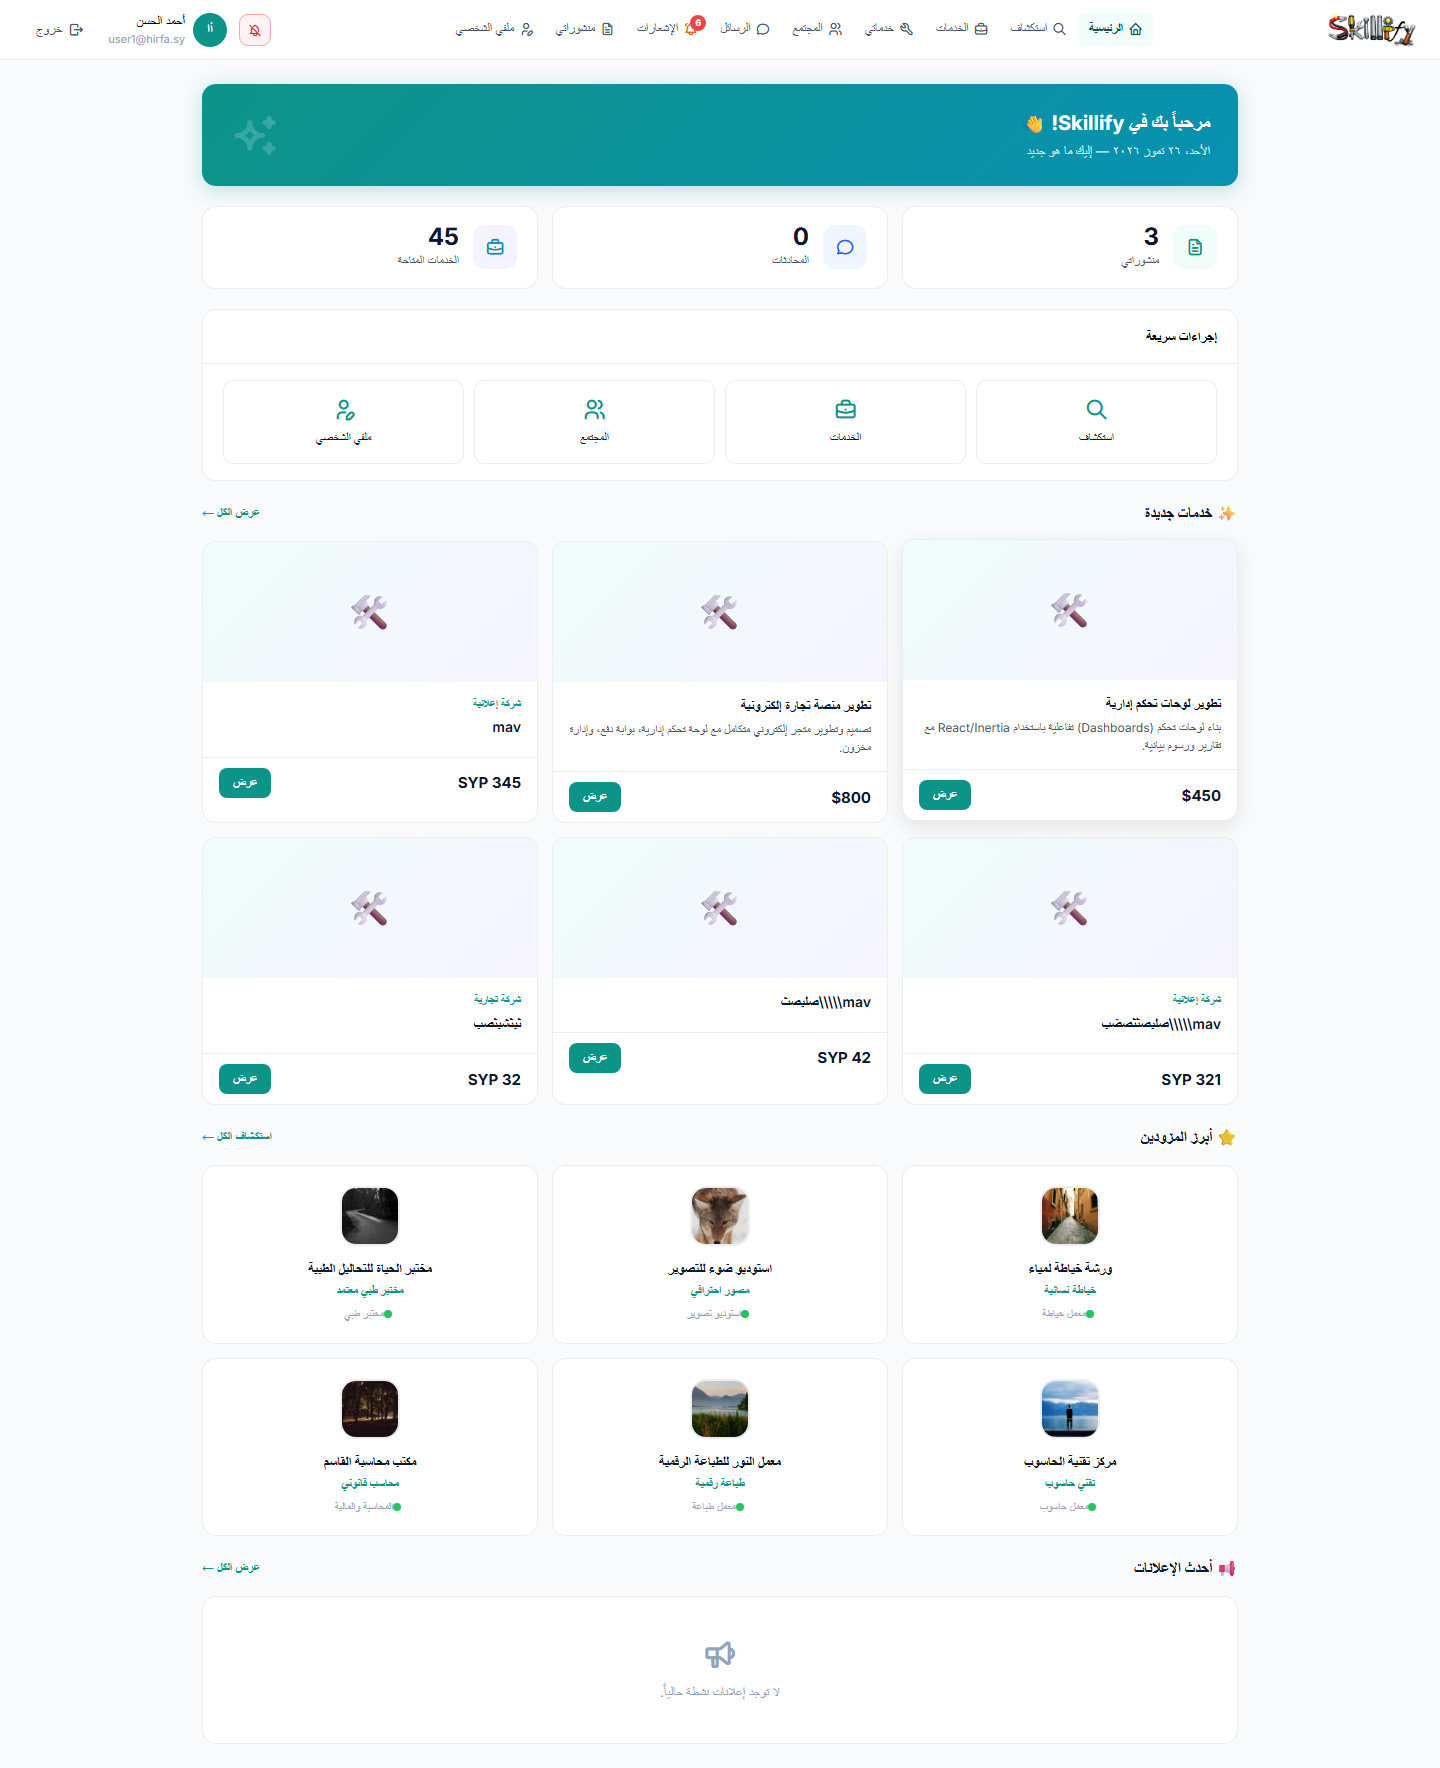
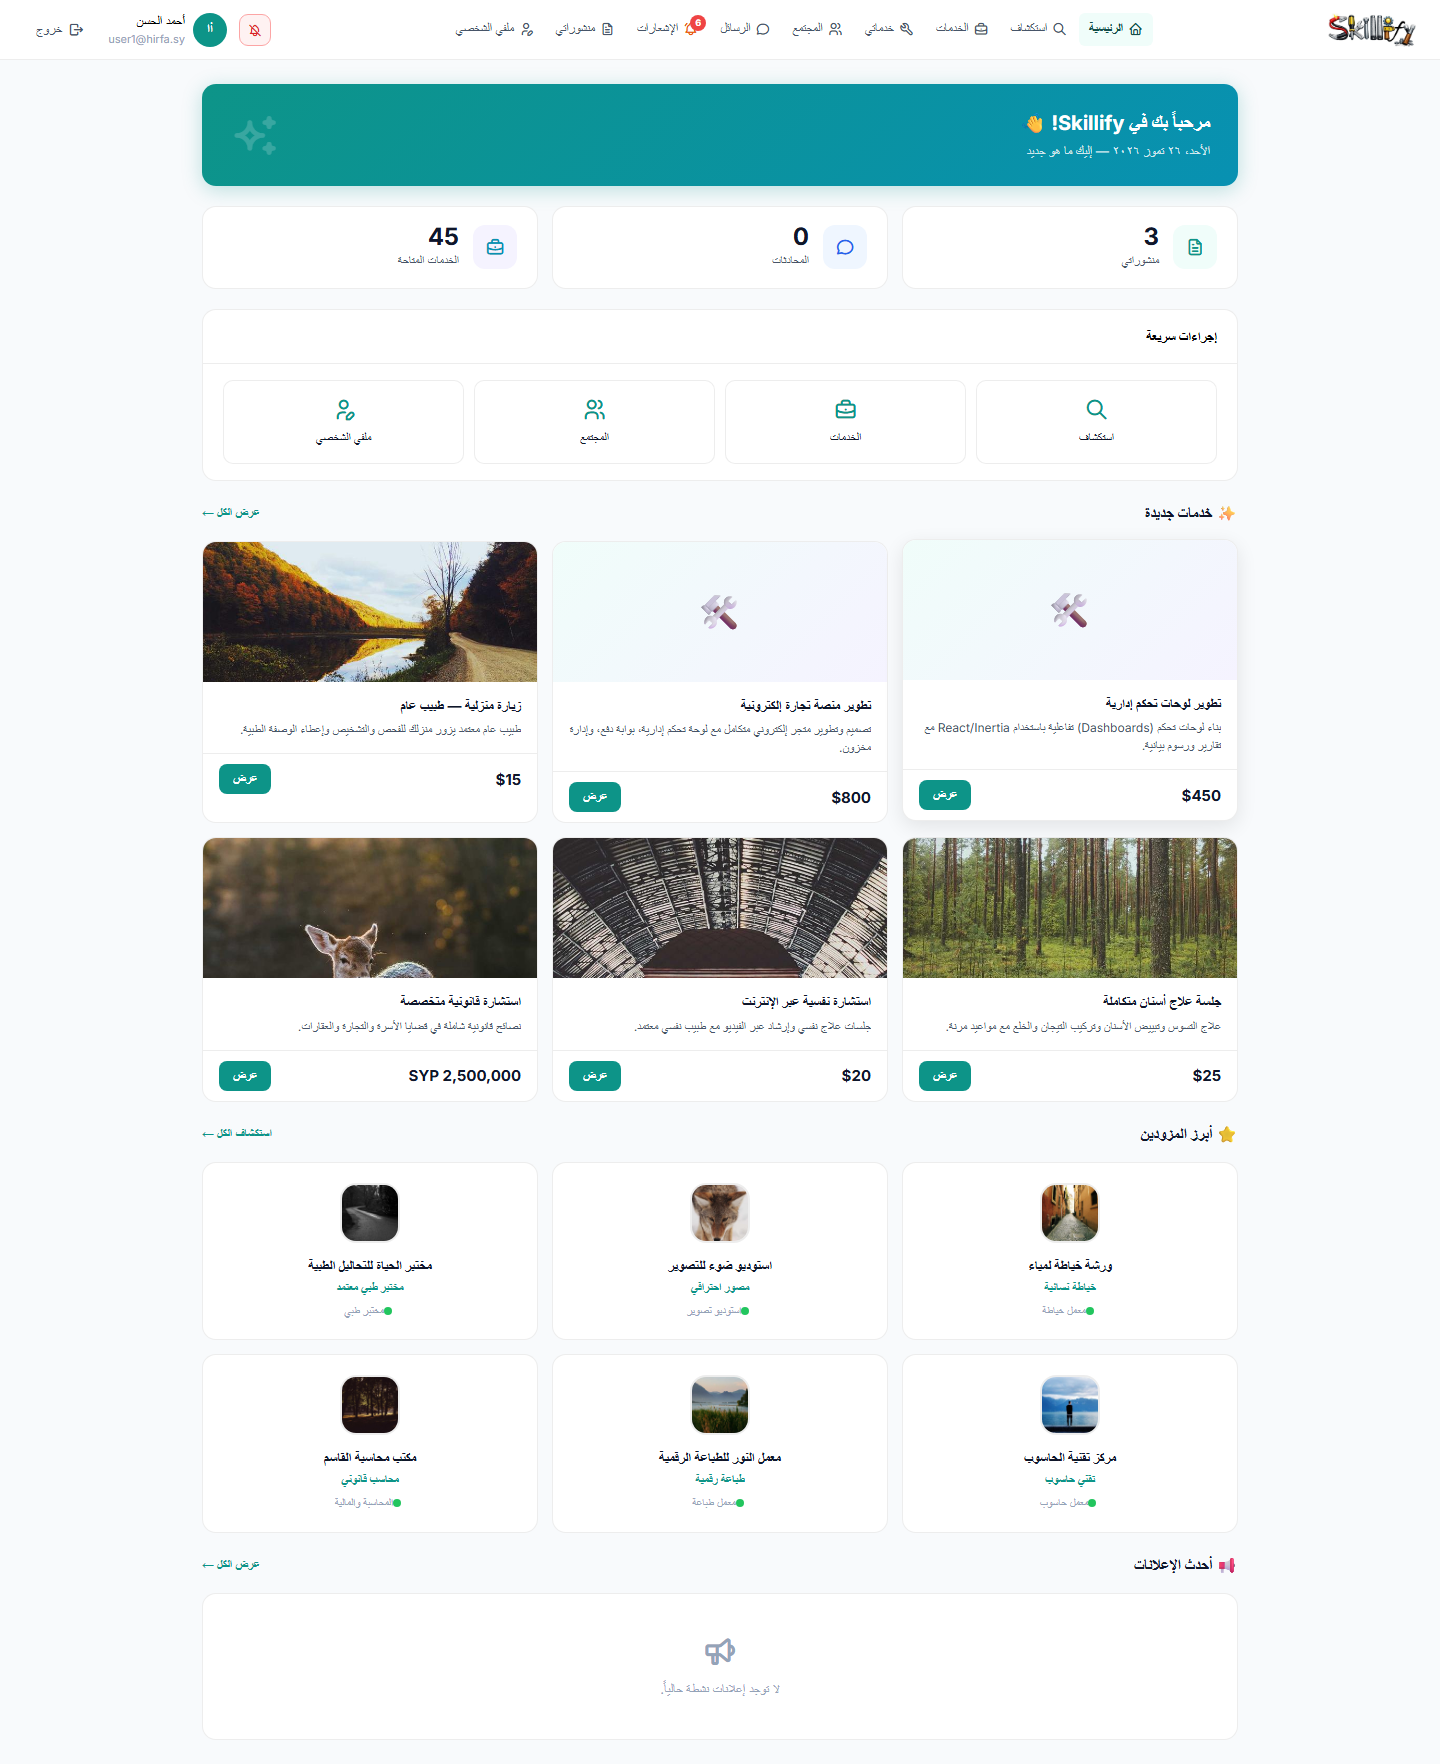
Fix broken business cover images and remove personal test accounts
Business images stored as absolute URLs (seeded demo data) were being
mangled into /storage/<url>, so every business card fell back to a
plain color block. Added a storageUrl() helper that passes absolute
URLs through untouched and applied it everywhere business/profile
images are rendered, matching the fix already present in Admin/Workers.jsx.

Also removed two personal test accounts (and their services/posts)
that were created for manual testing and shouldn't appear in the
publicly-shared screenshots, then refreshed the affected screenshots.

diff --git a/resources/js/Pages/User/Profile.jsx b/resources/js/Pages/User/Profile.jsx
@@ -6,6 +6,7 @@ import markerIcon2x from 'leaflet/dist/images/marker-icon-2x.png';
 import markerIcon from 'leaflet/dist/images/marker-icon.png';
 import markerShadow from 'leaflet/dist/images/marker-shadow.png';
 import UserLayout from '../../Layouts/UserLayout';
+import { storageUrl } from '../../utils/image';
 
 delete L.Icon.Default.prototype._getIconUrl;
 L.Icon.Default.mergeOptions({ iconRetinaUrl: markerIcon2x, iconUrl: markerIcon, shadowUrl: markerShadow });
@@ -230,7 +231,7 @@ function BizLogo({ business, size = 80, radius = 18 }) {
     return (
         <div style={{ width: size, height: size, borderRadius: radius, background: `linear-gradient(135deg,${T},${T2})`, display: 'flex', alignItems: 'center', justifyContent: 'center', fontSize: size * 0.35, fontWeight: 800, color: '#fff', flexShrink: 0, overflow: 'hidden', boxShadow: `0 6px 20px ${T}44` }}>
             {(business.image && !err)
-                ? <img src={`/storage/${business.image}`} alt="" onError={() => setErr(true)} style={{ width: '100%', height: '100%', objectFit: 'cover' }} />
+                ? <img src={storageUrl(business.image)} alt="" onError={() => setErr(true)} style={{ width: '100%', height: '100%', objectFit: 'cover' }} />
                 : (business.name?.[0]?.toUpperCase() || <i className="ti ti-building-store" />)
             }
         </div>
@@ -494,8 +495,8 @@ function PanelHead({ icon, title, sub, action }) {
 export default function Profile({ user, business, gallery, userServices, activeTypes, categories, subcategories, cities, flash, verification }) {
 
     const [tab, setTab]               = useState('profile');
-    const [imgPreview, setImgPreview]         = useState(business?.image ? `/storage/${business.image}` : null);
-    const [editImgPreview, setEditImgPreview] = useState(business?.image ? `/storage/${business.image}` : null);
+    const [imgPreview, setImgPreview]         = useState(business?.image ? storageUrl(business.image) : null);
+    const [editImgPreview, setEditImgPreview] = useState(business?.image ? storageUrl(business.image) : null);
     const [galleryUploading, setGalleryUploading]     = useState(false);
     const [pendingFiles, setPendingFiles]             = useState([]);
     const [createGalleryFiles, setCreateGalleryFiles] = useState([]);

diff --git a/resources/js/Pages/User/PublicProfile.jsx b/resources/js/Pages/User/PublicProfile.jsx
@@ -1,6 +1,7 @@
 import { Head, Link, router } from '@inertiajs/react';
 import { useState } from 'react';
 import UserLayout from '../../Layouts/UserLayout';
+import { storageUrl } from '../../utils/image';
 
 const T = '#0D9488';
 const AV_COLORS = ['#0D9488','#3B82F6','#8B5CF6','#F59E0B','#EF4444','#EC4899','#0F766E'];
@@ -8,8 +9,8 @@ const AV_COLORS = ['#0D9488','#3B82F6','#8B5CF6','#F59E0B','#EF4444','#EC4899','
 function Avatar({ user, size = 80 }) {
     const [err, setErr] = useState(false);
     const business = user.businesses;
-    const src = business?.image ? `/storage/${business.image}`
-        : user.profile_photo ? `/storage/${user.profile_photo}` : null;
+    const src = business?.image ? storageUrl(business.image)
+        : user.profile_photo ? storageUrl(user.profile_photo) : null;
     const initial = [user.first_name?.[0], user.last_name?.[0]].filter(Boolean).join('').toUpperCase();
     const color = AV_COLORS[(user.id ?? 0) % 7];
     return (
@@ -100,7 +101,7 @@ export default function PublicProfile({ profile, authId, isSelf, verifyStatus })
             <div style={{ background: '#fff', border: '1.5px solid #F1F5F9', borderRadius: 22, overflow: 'hidden', boxShadow: '0 4px 24px rgba(0,0,0,0.06)' }}>
                 {/* Cover */}
                 <div style={{ height: 130, background: `linear-gradient(135deg,#0D9488,#134E4A 60%,#052e16)`, position: 'relative', overflow: 'hidden' }}>
-                    {business?.image && <img src={`/storage/${business.image}`} alt="" style={{ position: 'absolute', inset: 0, width: '100%', height: '100%', objectFit: 'cover', opacity: 0.15, filter: 'blur(8px)', transform: 'scale(1.1)', pointerEvents: 'none' }} />}
+                    {business?.image && <img src={storageUrl(business.image)} alt="" style={{ position: 'absolute', inset: 0, width: '100%', height: '100%', objectFit: 'cover', opacity: 0.15, filter: 'blur(8px)', transform: 'scale(1.1)', pointerEvents: 'none' }} />}
                     <div style={{ position: 'absolute', inset: 0, backgroundImage: 'linear-gradient(rgba(255,255,255,0.04) 1px,transparent 1px),linear-gradient(90deg,rgba(255,255,255,0.04) 1px,transparent 1px)', backgroundSize: '32px 32px' }} />
                 </div>
 

diff --git a/resources/js/Pages/SuperAdmin/UserProfile.jsx b/resources/js/Pages/SuperAdmin/UserProfile.jsx
@@ -1,6 +1,7 @@
 import { Head, Link } from '@inertiajs/react';
 import { useState } from 'react';
 import SuperAdminLayout from '../../Layouts/SuperAdminLayout';
+import { storageUrl } from '../../utils/image';
 
 const T = '#7C3AED';
 
@@ -71,13 +72,13 @@ export default function UserProfile({ profile, verifyStatus }) {
             {/* Hero card */}
             <div style={{ background: '#fff', border: '1.5px solid #F1F5F9', borderRadius: 22, overflow: 'hidden', boxShadow: '0 4px 24px rgba(0,0,0,0.06)' }}>
                 <div style={{ height: 120, background: `linear-gradient(135deg,${T},#5B21B6 60%,#1E1B4B)`, position: 'relative', overflow: 'hidden' }}>
-                    {business?.image && <img src={`/storage/${business.image}`} alt="" style={{ position: 'absolute', inset: 0, width: '100%', height: '100%', objectFit: 'cover', opacity: 0.15, filter: 'blur(8px)', transform: 'scale(1.1)' }} />}
+                    {business?.image && <img src={storageUrl(business.image)} alt="" style={{ position: 'absolute', inset: 0, width: '100%', height: '100%', objectFit: 'cover', opacity: 0.15, filter: 'blur(8px)', transform: 'scale(1.1)' }} />}
                 </div>
                 <div style={{ padding: '0 26px 24px' }}>
                     <div style={{ position: 'relative', display: 'inline-block', marginTop: -42, marginBottom: 14 }}>
                         <div style={{ width: 88, height: 88, borderRadius: '50%', border: '4px solid #fff', boxShadow: '0 6px 20px rgba(0,0,0,0.15)', background: T, display: 'flex', alignItems: 'center', justifyContent: 'center', overflow: 'hidden' }}>
                             {business?.image
-                                ? <img src={`/storage/${business.image}`} alt="" style={{ width: '100%', height: '100%', objectFit: 'cover' }} />
+                                ? <img src={storageUrl(business.image)} alt="" style={{ width: '100%', height: '100%', objectFit: 'cover' }} />
                                 : <span style={{ fontSize: 30, fontWeight: 800, color: '#fff' }}>{(profile.first_name?.[0] ?? 'U').toUpperCase()}</span>
                             }
                         </div>

diff --git a/resources/js/Pages/Admin/UserProfile.jsx b/resources/js/Pages/Admin/UserProfile.jsx
@@ -1,6 +1,7 @@
 import { Head, Link } from '@inertiajs/react';
 import { useState } from 'react';
 import AdminLayout, { C } from '../../Layouts/AdminLayout';
+import { storageUrl } from '../../utils/image';
 
 const T = C.teal ?? '#0D9488';
 
@@ -71,13 +72,13 @@ export default function UserProfile({ profile, verifyStatus }) {
             {/* Hero card */}
             <div style={{ background: '#fff', border: C.cardBorder, borderRadius: 22, overflow: 'hidden', boxShadow: C.cardShadow }}>
                 <div style={{ height: 120, background: `linear-gradient(135deg,${T},#134E4A 60%,#052e16)`, position: 'relative', overflow: 'hidden' }}>
-                    {business?.image && <img src={`/storage/${business.image}`} alt="" style={{ position: 'absolute', inset: 0, width: '100%', height: '100%', objectFit: 'cover', opacity: 0.15, filter: 'blur(8px)', transform: 'scale(1.1)' }} />}
+                    {business?.image && <img src={storageUrl(business.image)} alt="" style={{ position: 'absolute', inset: 0, width: '100%', height: '100%', objectFit: 'cover', opacity: 0.15, filter: 'blur(8px)', transform: 'scale(1.1)' }} />}
                 </div>
                 <div style={{ padding: '0 26px 24px' }}>
                     <div style={{ position: 'relative', display: 'inline-block', marginTop: -42, marginBottom: 14 }}>
                         <div style={{ width: 88, height: 88, borderRadius: '50%', border: '4px solid #fff', boxShadow: '0 6px 20px rgba(0,0,0,0.15)', background: T, display: 'flex', alignItems: 'center', justifyContent: 'center', overflow: 'hidden' }}>
                             {business?.image
-                                ? <img src={`/storage/${business.image}`} alt="" style={{ width: '100%', height: '100%', objectFit: 'cover' }} />
+                                ? <img src={storageUrl(business.image)} alt="" style={{ width: '100%', height: '100%', objectFit: 'cover' }} />
                                 : <span style={{ fontSize: 30, fontWeight: 800, color: '#fff' }}>{(profile.first_name?.[0] ?? 'U').toUpperCase()}</span>
                             }
                         </div>

diff --git a/resources/js/Pages/SuperAdmin/BusinessDetails.jsx b/resources/js/Pages/SuperAdmin/BusinessDetails.jsx
@@ -1,5 +1,6 @@
 import { Head, Link, router } from '@inertiajs/react';
 import SuperAdminLayout from '../../Layouts/SuperAdminLayout';
+import { storageUrl } from '../../utils/image';
 
 const STATUS = {
     active:   { bg: '#F0FDF4', color: '#134E4A', label: 'مقبول' },
@@ -37,7 +38,7 @@ export default function BusinessDetails({ business }) {
                 <div style={{ background: '#fff', border: '0.5px solid rgba(0,0,0,0.07)', borderRadius: 14, overflow: 'hidden' }}>
                     <div style={{ display: 'flex', alignItems: 'center', gap: 14, padding: '18px 20px', borderBottom: '0.5px solid rgba(0,0,0,0.07)' }}>
                         <div style={{ width: 60, height: 60, borderRadius: 12, background: '#F5F3FF', overflow: 'hidden', display: 'flex', alignItems: 'center', justifyContent: 'center', fontSize: 24, color: '#7C3AED', flexShrink: 0 }}>
-                            {business.image ? <img src={`/storage/${business.image}`} style={{ width: '100%', height: '100%', objectFit: 'cover' }} alt={business.name} /> : <i className="ti ti-briefcase" />}
+                            {business.image ? <img src={storageUrl(business.image)} style={{ width: '100%', height: '100%', objectFit: 'cover' }} alt={business.name} /> : <i className="ti ti-briefcase" />}
                         </div>
                         <div>
                             <div style={{ fontSize: 17, fontWeight: 700, color: '#1E1B4B' }}>{business.name}</div>

diff --git a/resources/js/Pages/Admin/WorkerDetails.jsx b/resources/js/Pages/Admin/WorkerDetails.jsx
@@ -1,5 +1,6 @@
 import { Head, Link, router } from '@inertiajs/react';
 import AdminLayout from '../../Layouts/AdminLayout';
+import { storageUrl } from '../../utils/image';
 
 const STATUS = {
     active:   { bg: '#F0FDF4', color: '#134E4A' },
@@ -37,7 +38,7 @@ export default function WorkerDetails({ business }) {
                 <div style={{ background: '#fff', border: '0.5px solid rgba(0,0,0,0.07)', borderRadius: 14, overflow: 'hidden' }}>
                     <div style={{ display: 'flex', alignItems: 'center', gap: 14, padding: '18px 20px', borderBottom: '0.5px solid rgba(0,0,0,0.07)' }}>
                         <div style={{ width: 60, height: 60, borderRadius: 12, background: '#F1F5F9', overflow: 'hidden', display: 'flex', alignItems: 'center', justifyContent: 'center', fontSize: 24, color: '#94A3B8', flexShrink: 0 }}>
-                            {business.image ? <img src={`/storage/${business.image}`} style={{ width: '100%', height: '100%', objectFit: 'cover' }} alt={business.name} /> : <i className="ti ti-briefcase" />}
+                            {business.image ? <img src={storageUrl(business.image)} style={{ width: '100%', height: '100%', objectFit: 'cover' }} alt={business.name} /> : <i className="ti ti-briefcase" />}
                         </div>
                         <div>
                             <div style={{ fontSize: 17, fontWeight: 700, color: '#0F172A' }}>{business.name}</div>

diff --git a/resources/js/Pages/Admin/Users.jsx b/resources/js/Pages/Admin/Users.jsx
@@ -1,6 +1,7 @@
 import { Head, router } from '@inertiajs/react';
 import { useState } from 'react';
 import AdminLayout, { C } from '../../Layouts/AdminLayout';
+import { storageUrl } from '../../utils/image';
 
 const AV = ['#0EA5E9','#0D9488','#8B5CF6','#F59E0B','#10B981','#EF4444','#EC4899','#2563EB'];
 function avColor(i)  { return AV[i % AV.length]; }
@@ -157,7 +158,7 @@ function UserDrawer({ user, index, onClose, onToggle, onDelete }) {
 
                             <div style={{ display: 'flex', alignItems: 'center', gap: 10, marginBottom: 12 }}>
                                 {biz.image ? (
-                                    <img src={`/storage/${biz.image}`} alt={biz.name} style={{ width: 44, height: 44, borderRadius: 10, objectFit: 'cover', flexShrink: 0 }} />
+                                    <img src={storageUrl(biz.image)} alt={biz.name} style={{ width: 44, height: 44, borderRadius: 10, objectFit: 'cover', flexShrink: 0 }} />
                                 ) : (
                                     <div style={{ width: 44, height: 44, borderRadius: 10, background: '#CCFBF1', display: 'flex', alignItems: 'center', justifyContent: 'center', fontSize: 18, color: C.teal, flexShrink: 0 }}>
                                         <i className="ti ti-briefcase" />

diff --git a/resources/js/Pages/SuperAdmin/Users.jsx b/resources/js/Pages/SuperAdmin/Users.jsx
@@ -1,6 +1,7 @@
 import { Head, router } from '@inertiajs/react';
 import { useState } from 'react';
 import SuperAdminLayout from '../../Layouts/SuperAdminLayout';
+import { storageUrl } from '../../utils/image';
 
 const AV_COLORS = ['#6D28D9','#0D9488','#2563EB','#D97706','#DC2626','#0891B2','#7C3AED','#059669'];
 
@@ -161,7 +162,7 @@ function UserDrawer({ user, index, onClose, onDelete, onBlock, onUnblock }) {
 
                             <div style={{ display: 'flex', alignItems: 'center', gap: 10, marginBottom: 12 }}>
                                 {biz.image ? (
-                                    <img src={`/storage/${biz.image}`} alt={biz.name} style={{ width: 44, height: 44, borderRadius: 10, objectFit: 'cover', flexShrink: 0 }} />
+                                    <img src={storageUrl(biz.image)} alt={biz.name} style={{ width: 44, height: 44, borderRadius: 10, objectFit: 'cover', flexShrink: 0 }} />
                                 ) : (
                                     <div style={{ width: 44, height: 44, borderRadius: 10, background: '#EDE9FE', display: 'flex', alignItems: 'center', justifyContent: 'center', fontSize: 18, color: '#7C3AED', flexShrink: 0 }}>
                                         <i className="ti ti-briefcase" />

diff --git a/resources/js/Pages/Landing.jsx b/resources/js/Pages/Landing.jsx
@@ -1,5 +1,6 @@
 import { useState } from 'react';
 import { Head, Link } from '@inertiajs/react';
+import { storageUrl } from '../utils/image';
 
 const DEMO_PROFESSIONALS = [
     {
@@ -334,7 +335,7 @@ export default function Landing({ ads = [], topProfessionals = [], categories = 
                                 <div key={pro.id} className="group bg-white rounded-3xl p-6 shadow-sm border border-gray-100 hover:shadow-xl hover:-translate-y-1 transition-all duration-300 flex flex-col items-center text-center">
                                     <div className="relative mb-4">
                                         <img
-                                            src={pro.image ? `/storage/${pro.image}` : avatar(pro.name)}
+                                            src={pro.image ? storageUrl(pro.image) : avatar(pro.name)}
                                             alt={pro.name}
                                             className="w-20 h-20 rounded-2xl object-cover ring-4 ring-[#F0FDFA] group-hover:ring-[#0D9488]/30 transition-all"
                                             onError={e => { e.target.src = avatar(pro.name); }}

diff --git a/resources/js/Pages/SuperAdmin/Businesses.jsx b/resources/js/Pages/SuperAdmin/Businesses.jsx
@@ -1,6 +1,7 @@
 import { Head, Link, router } from '@inertiajs/react';
 import { useState } from 'react';
 import SuperAdminLayout from '../../Layouts/SuperAdminLayout';
+import { storageUrl } from '../../utils/image';
 
 const FONT = "'Cairo','Inter',sans-serif";
 const P = '#7C3AED';
@@ -146,7 +147,7 @@ export default function Businesses({ businesses }) {
                                 <div style={{ position: 'relative', height: 130, overflow: 'hidden', flexShrink: 0 }}>
                                     {hasImg ? (
                                         <img
-                                            src={`/storage/${b.image}`}
+                                            src={storageUrl(b.image)}
                                             alt={b.name}
                                             onError={() => setImgErrors(prev => ({ ...prev, [b.id]: true }))}
                                             style={{ width: '100%', height: '100%', objectFit: 'cover', display: 'block' }}

diff --git a/resources/js/Pages/User/ServiceDetails.jsx b/resources/js/Pages/User/ServiceDetails.jsx
@@ -1,14 +1,15 @@
 import { Head, Link, router } from '@inertiajs/react';
 import { useState } from 'react';
 import UserLayout from '../../Layouts/UserLayout';
+import { storageUrl } from '../../utils/image';
 
 const T = '#0D9488';
 const AV_COLORS = ['#0D9488','#3B82F6','#8B5CF6','#F59E0B','#EF4444','#EC4899','#0F766E'];
 
 function ProviderAvatar({ user, business, size = 56 }) {
     const [err, setErr] = useState(false);
-    const src = business?.image ? `/storage/${business.image}`
-        : user?.profile_photo ? `/storage/${user.profile_photo}` : null;
+    const src = business?.image ? storageUrl(business.image)
+        : user?.profile_photo ? storageUrl(user.profile_photo) : null;
     const initial = (user?.first_name ?? business?.name ?? 'U')[0].toUpperCase();
     const color = AV_COLORS[(user?.id ?? 0) % 7];
     return (

diff --git a/resources/js/utils/image.js b/resources/js/utils/image.js
@@ -1,0 +1,4 @@
+export function storageUrl(path) {
+    if (!path) return null;
+    return path.startsWith('http') ? path : `/storage/${path}`;
+}
